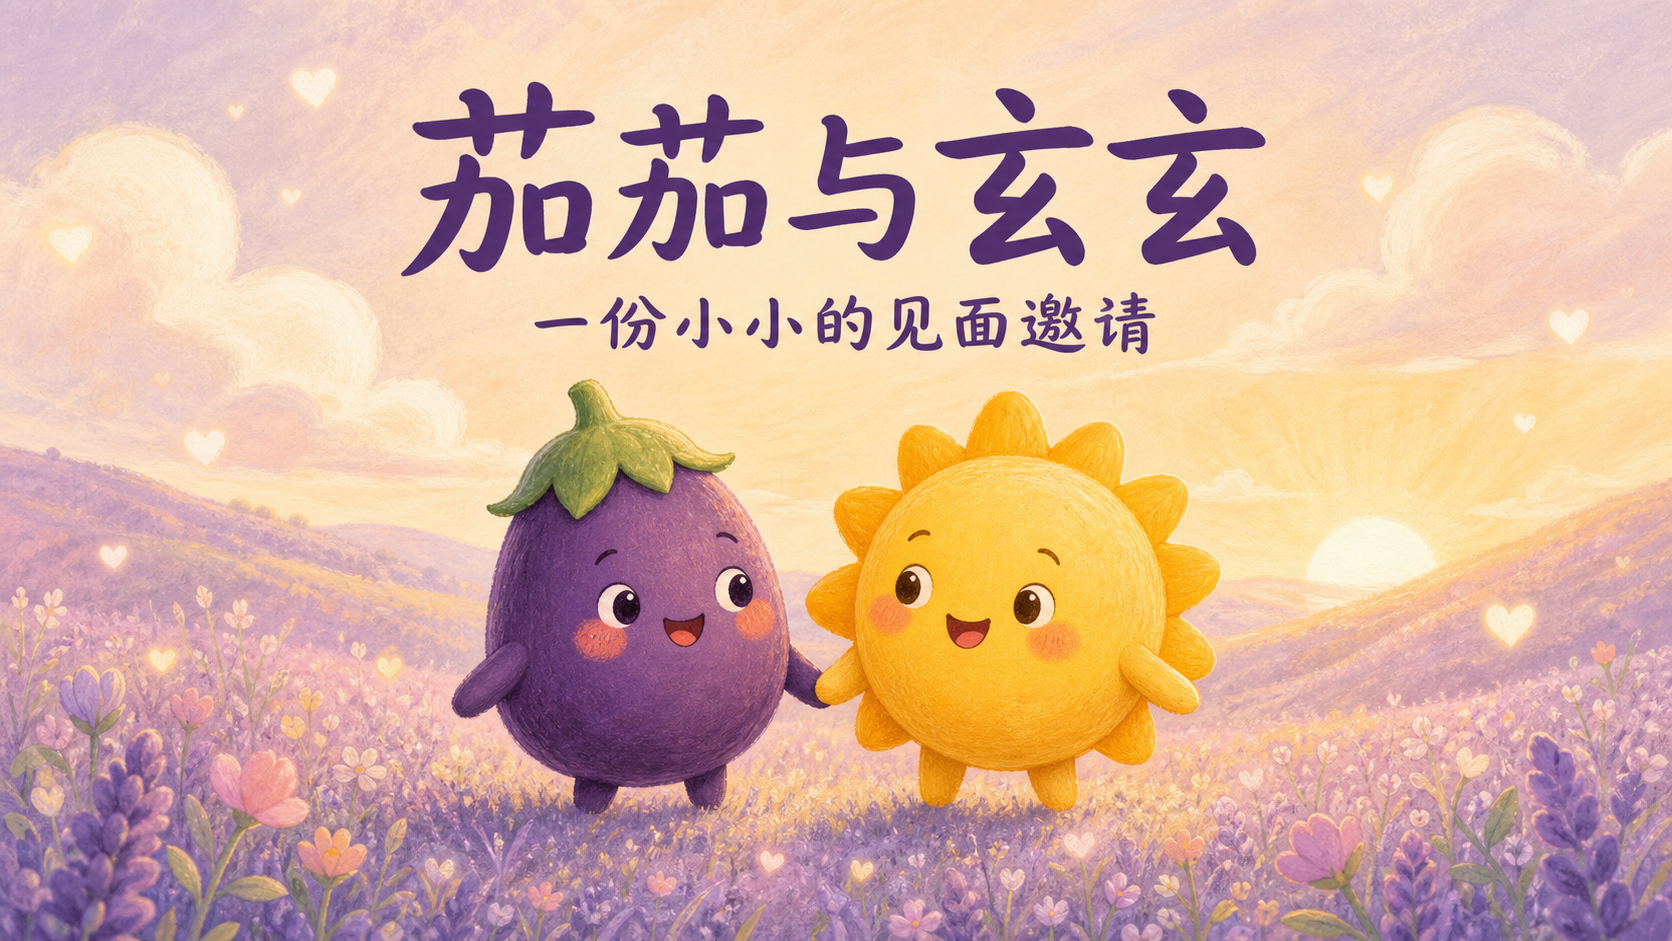
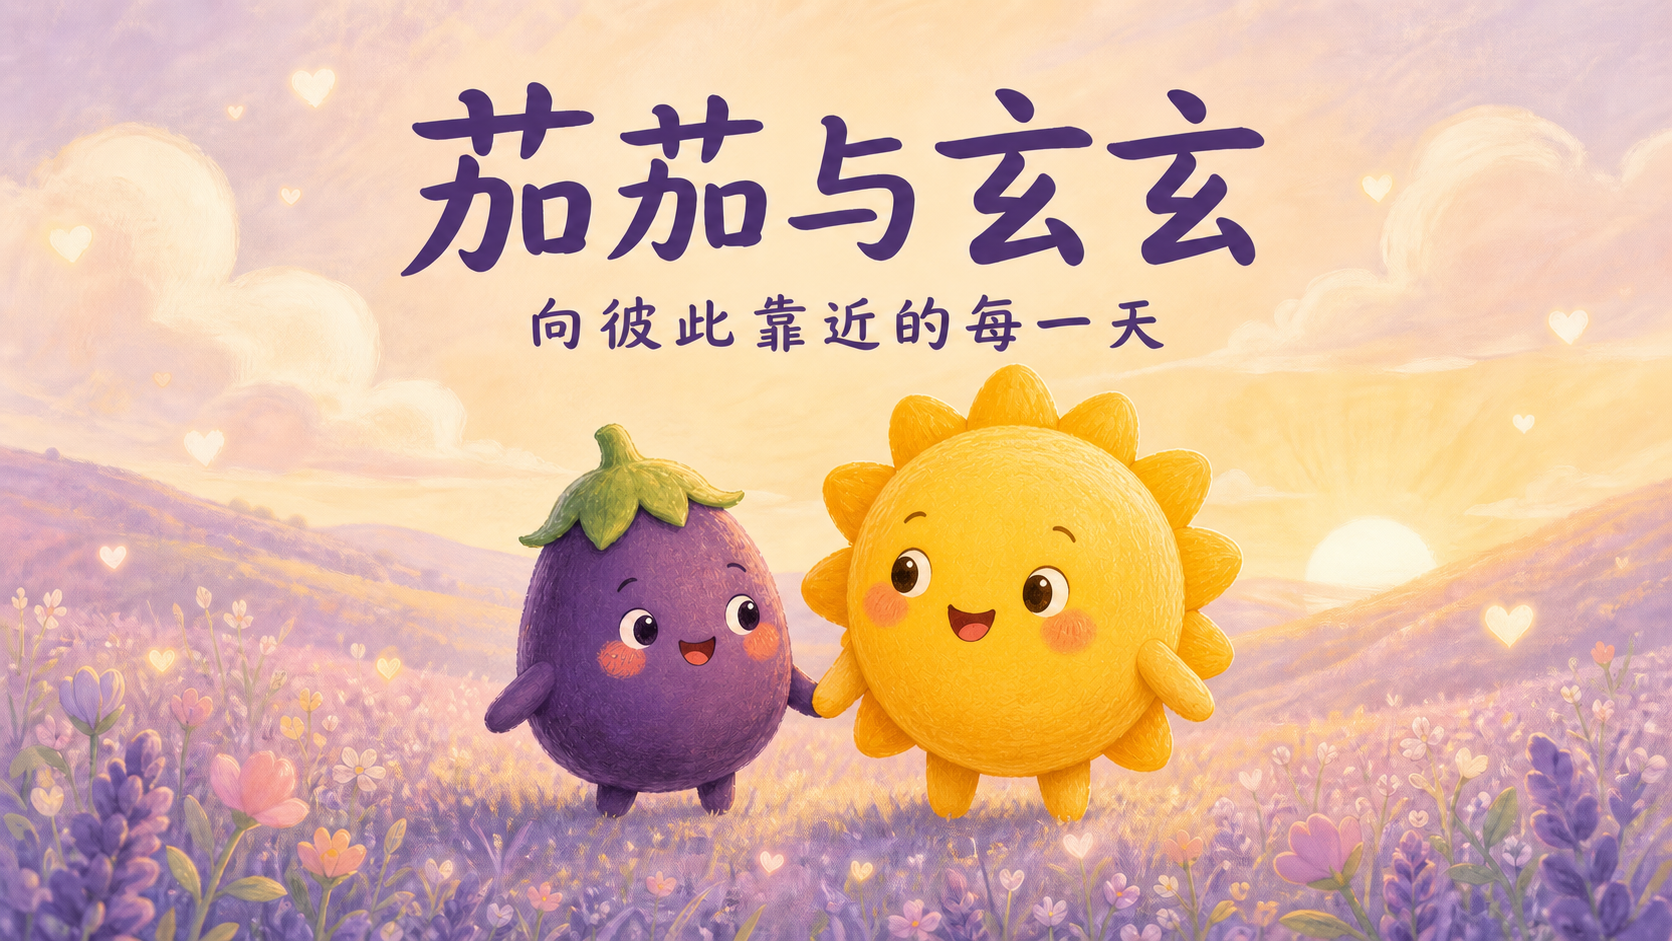
Refine character proportions and story copy

diff --git a/app/page.tsx b/app/page.tsx
@@ -1,6 +1,6 @@
 "use client";
 
-import { useMemo, useState } from "react";
+import { useMemo, useRef, useState } from "react";
 
 type Step =
   | "identity"
@@ -30,6 +30,7 @@ export default function Home() {
   const [betterIdea, setBetterIdea] = useState(false);
   const [ideaText, setIdeaText] = useState("");
   const [finalMessage, setFinalMessage] = useState("");
+  const cursorRef = useRef<HTMLDivElement>(null);
 
   const progress = useMemo(() => {
     const order: Step[] = [
@@ -99,7 +100,24 @@ export default function Home() {
   }
 
   return (
-    <main className="story-shell">
+    <main
+      className="story-shell"
+      onPointerMove={(event) => {
+        const cursorElement = cursorRef.current;
+        if (event.pointerType === "mouse" && cursorElement) {
+          cursorElement.style.transform = `translate3d(${event.clientX}px, ${event.clientY}px, 0)`;
+          cursorElement.classList.add("visible");
+        }
+      }}
+      onPointerLeave={() => cursorRef.current?.classList.remove("visible")}
+    >
+      <div
+        aria-hidden="true"
+        className="custom-cursor"
+        ref={cursorRef}
+      >
+        ♡
+      </div>
       <div className="ambient ambient-one" />
       <div className="ambient ambient-two" />
       <div className="floating-symbol symbol-one">✦</div>
@@ -228,10 +246,10 @@ export default function Home() {
             <figure className="story-illustration">
               <img
                 src="/qiexuan-story.png"
-                alt="茄子形象的茄茄和小太阳形象的玄玄牵手、拥抱、依偎和亲亲"
+                alt="较小的茄茄和较高的小太阳玄玄牵手、拥抱、依偎和亲亲"
               />
               <figcaption>
-                牵手 · 拥抱 · 肩并肩 · 靠在一起 · 亲亲 · 抱在怀里
+                牵手 · 拥抱 · 肩并肩 · 靠在一起 · 亲亲 · 相互依偎
               </figcaption>
             </figure>
             <button className="primary-button" onClick={() => setStep("date")}>
@@ -243,9 +261,9 @@ export default function Home() {
         {step === "date" && (
           <div className="step-content">
             <MascotPair />
-            <p className="eyebrow">第四关 · 把期待圈起来</p>
+            <p className="eyebrow">把期待圈起来</p>
             <h1>我们什么时候见面？</h1>
-            <p className="lead">不管选哪一天，小太阳都在朝茄茄靠近。</p>
+            <p className="lead">不管选哪一天，小太阳和茄茄都在向彼此靠近。</p>
             <div className="date-grid">
               <button className="date-card" onClick={() => chooseDate("8.7")}>
                 <span className="date-day">8.7</span>
@@ -268,7 +286,7 @@ export default function Home() {
               <span className="route-heart">♡</span>
               <span>秦皇岛</span>
             </div>
-            <p className="eyebrow">第五关 · 一起回家</p>
+            <p className="eyebrow">一起回家</p>
             <h1>那玄玄愿意来北京，带我一起回秦皇岛吗？</h1>
             <p className="lead">这是属于 8.7 晚的小小约定。</p>
             {!betterIdea ? (
@@ -331,7 +349,7 @@ export default function Home() {
             <h1>{finalMessage}</h1>
             <p className="lead">
               {dateChoice === "8.7"
-                ? "从北京到秦皇岛，茄茄和玄玄要一起笑着出发。"
+                ? "从广州出发，跨过北京，再一起回到秦皇岛——茄茄和玄玄终于要向彼此奔赴啦。"
                 : "倒数每一个日落，直到我们在秦皇岛见面。"}
             </p>
             <div className="promise-note">今天也要做茄茄最最可爱的小太阳 ☀</div>
@@ -342,7 +360,7 @@ export default function Home() {
         )}
       </section>
 
-      <footer>给茄茄的小太阳 · 一份只属于我们的见面邀请</footer>
+      <footer>给茄茄的小太阳 · 我们会一步一步向彼此靠近</footer>
 
       {identityFailed && (
         <div className="modal-backdrop" role="dialog" aria-modal="true">

diff --git a/app/globals.css b/app/globals.css
@@ -245,7 +245,7 @@ h1 {
 .mascot-pair {
   display: flex;
   min-height: 150px;
-  align-items: center;
+  align-items: flex-end;
   justify-content: center;
   gap: 10px;
 }
@@ -260,13 +260,30 @@ h1 {
   animation: bob 3s ease-in-out infinite;
 }
 
+.eggplant-mascot {
+  width: 102px;
+  height: 116px;
+}
+
+.sun-mascot {
+  width: 132px;
+  height: 144px;
+}
+
 .sun-mascot {
   animation-delay: -1.5s;
 }
 
 .mascot-emoji {
-  font-size: 92px;
   filter: drop-shadow(0 13px 13px rgba(80, 45, 91, 0.13));
+}
+
+.eggplant-mascot .mascot-emoji {
+  font-size: 78px;
+}
+
+.sun-mascot .mascot-emoji {
+  font-size: 108px;
 }
 
 .mascot-face {
@@ -280,6 +297,14 @@ h1 {
   font-size: 14px;
   font-weight: 900;
   transform: translateX(-50%);
+}
+
+.eggplant-mascot .mascot-face {
+  top: 48px;
+}
+
+.sun-mascot .mascot-face {
+  top: 62px;
 }
 
 .mascot small {
@@ -566,11 +591,19 @@ h1 {
 }
 
 .date-card:first-child {
-  background: linear-gradient(160deg, #efe3fa, #fff);
+  background: linear-gradient(
+    160deg,
+    rgba(221, 200, 242, 0.42),
+    rgba(255, 255, 255, 0.94)
+  );
 }
 
 .date-card:last-child {
-  background: linear-gradient(160deg, #fff3b7, #fff);
+  background: linear-gradient(
+    160deg,
+    rgba(255, 247, 207, 0.44),
+    rgba(255, 255, 255, 0.94)
+  );
 }
 
 .date-day {
@@ -581,7 +614,7 @@ h1 {
 }
 
 .date-card:last-child .date-day {
-  color: #bc8312;
+  color: #9b751d;
 }
 
 .date-card small {
@@ -668,36 +701,55 @@ h1 {
 .happy-pair {
   display: flex;
   min-height: 190px;
-  align-items: center;
+  align-items: flex-end;
   justify-content: center;
   gap: 14px;
 }
 
 .happy-character {
   position: relative;
-  width: 150px;
-  height: 160px;
   animation: happy-bounce 1.8s ease-in-out infinite;
 }
 
+.eggplant-happy {
+  width: 126px;
+  height: 142px;
+}
+
 .sun-happy {
+  width: 166px;
+  height: 178px;
   animation-delay: -0.9s;
 }
 
 .happy-character span {
-  font-size: 116px;
   filter: drop-shadow(0 15px 18px rgba(87, 48, 111, 0.15));
+}
+
+.eggplant-happy span {
+  font-size: 94px;
+}
+
+.sun-happy span {
+  font-size: 130px;
 }
 
 .happy-character b {
   position: absolute;
-  top: 69px;
   left: 50%;
   padding: 3px 7px;
   border-radius: 10px;
   background: rgba(255, 255, 255, 0.76);
   font-size: 16px;
   transform: translateX(-50%);
+}
+
+.eggplant-happy b {
+  top: 57px;
+}
+
+.sun-happy b {
+  top: 78px;
 }
 
 .pink-heart {
@@ -833,6 +885,32 @@ footer {
   font-weight: 700;
   letter-spacing: 0.08em;
   text-align: center;
+}
+
+.custom-cursor {
+  position: fixed;
+  top: -12px;
+  left: -12px;
+  z-index: 100;
+  display: grid;
+  width: 24px;
+  height: 24px;
+  place-items: center;
+  border-radius: 50%;
+  opacity: 0;
+  pointer-events: none;
+  background: rgba(255, 249, 213, 0.88);
+  box-shadow:
+    0 0 0 5px rgba(248, 217, 104, 0.18),
+    0 6px 16px rgba(87, 48, 111, 0.18);
+  color: var(--pink);
+  font-size: 15px;
+  font-weight: 900;
+  transition: opacity 120ms ease;
+}
+
+.custom-cursor.visible {
+  opacity: 1;
 }
 
 @keyframes arrive {
@@ -1049,6 +1127,20 @@ footer {
   footer {
     margin-top: 13px;
     letter-spacing: 0.03em;
+  }
+}
+
+@media (pointer: fine) {
+  body,
+  button,
+  textarea {
+    cursor: none !important;
+  }
+}
+
+@media (pointer: coarse) {
+  .custom-cursor {
+    display: none;
   }
 }
 

diff --git a/app/layout.tsx b/app/layout.tsx
@@ -14,7 +14,7 @@ export async function generateMetadata(): Promise<Metadata> {
   const imageUrl = `${protocol}://${host}/og.png`;
 
   return {
-    title: "茄茄与玄玄的小小见面邀请",
+    title: "茄茄与玄玄的小故事",
     description: "一份写给茄茄的小太阳的温馨互动故事。",
     icons: {
       icon: "/favicon.svg",
@@ -22,14 +22,14 @@ export async function generateMetadata(): Promise<Metadata> {
     },
     openGraph: {
       title: "茄茄与玄玄",
-      description: "一份小小的见面邀请",
+      description: "向彼此靠近的每一天",
       type: "website",
       images: [{ url: imageUrl, width: 1672, height: 941 }],
     },
     twitter: {
       card: "summary_large_image",
       title: "茄茄与玄玄",
-      description: "一份小小的见面邀请",
+      description: "向彼此靠近的每一天",
       images: [imageUrl],
     },
   };
